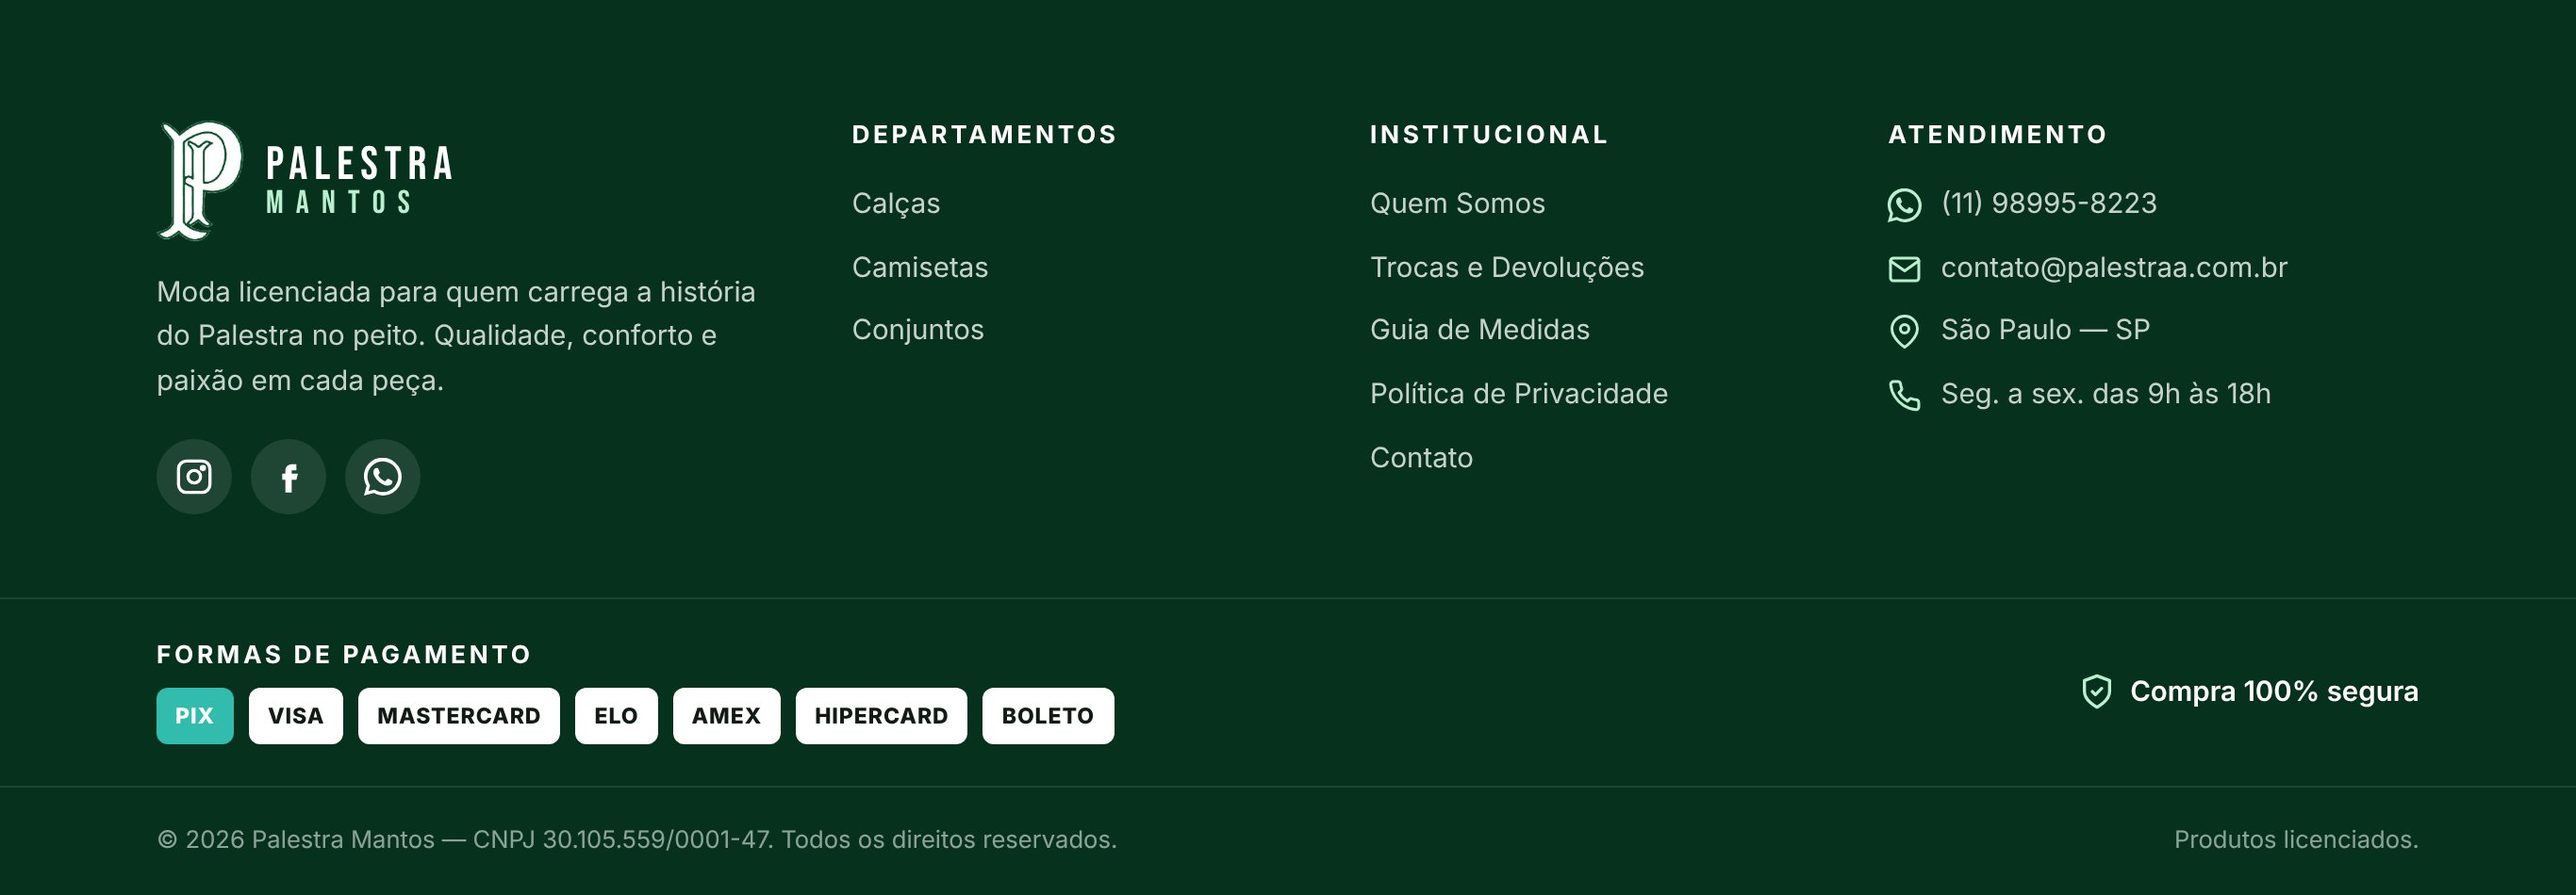
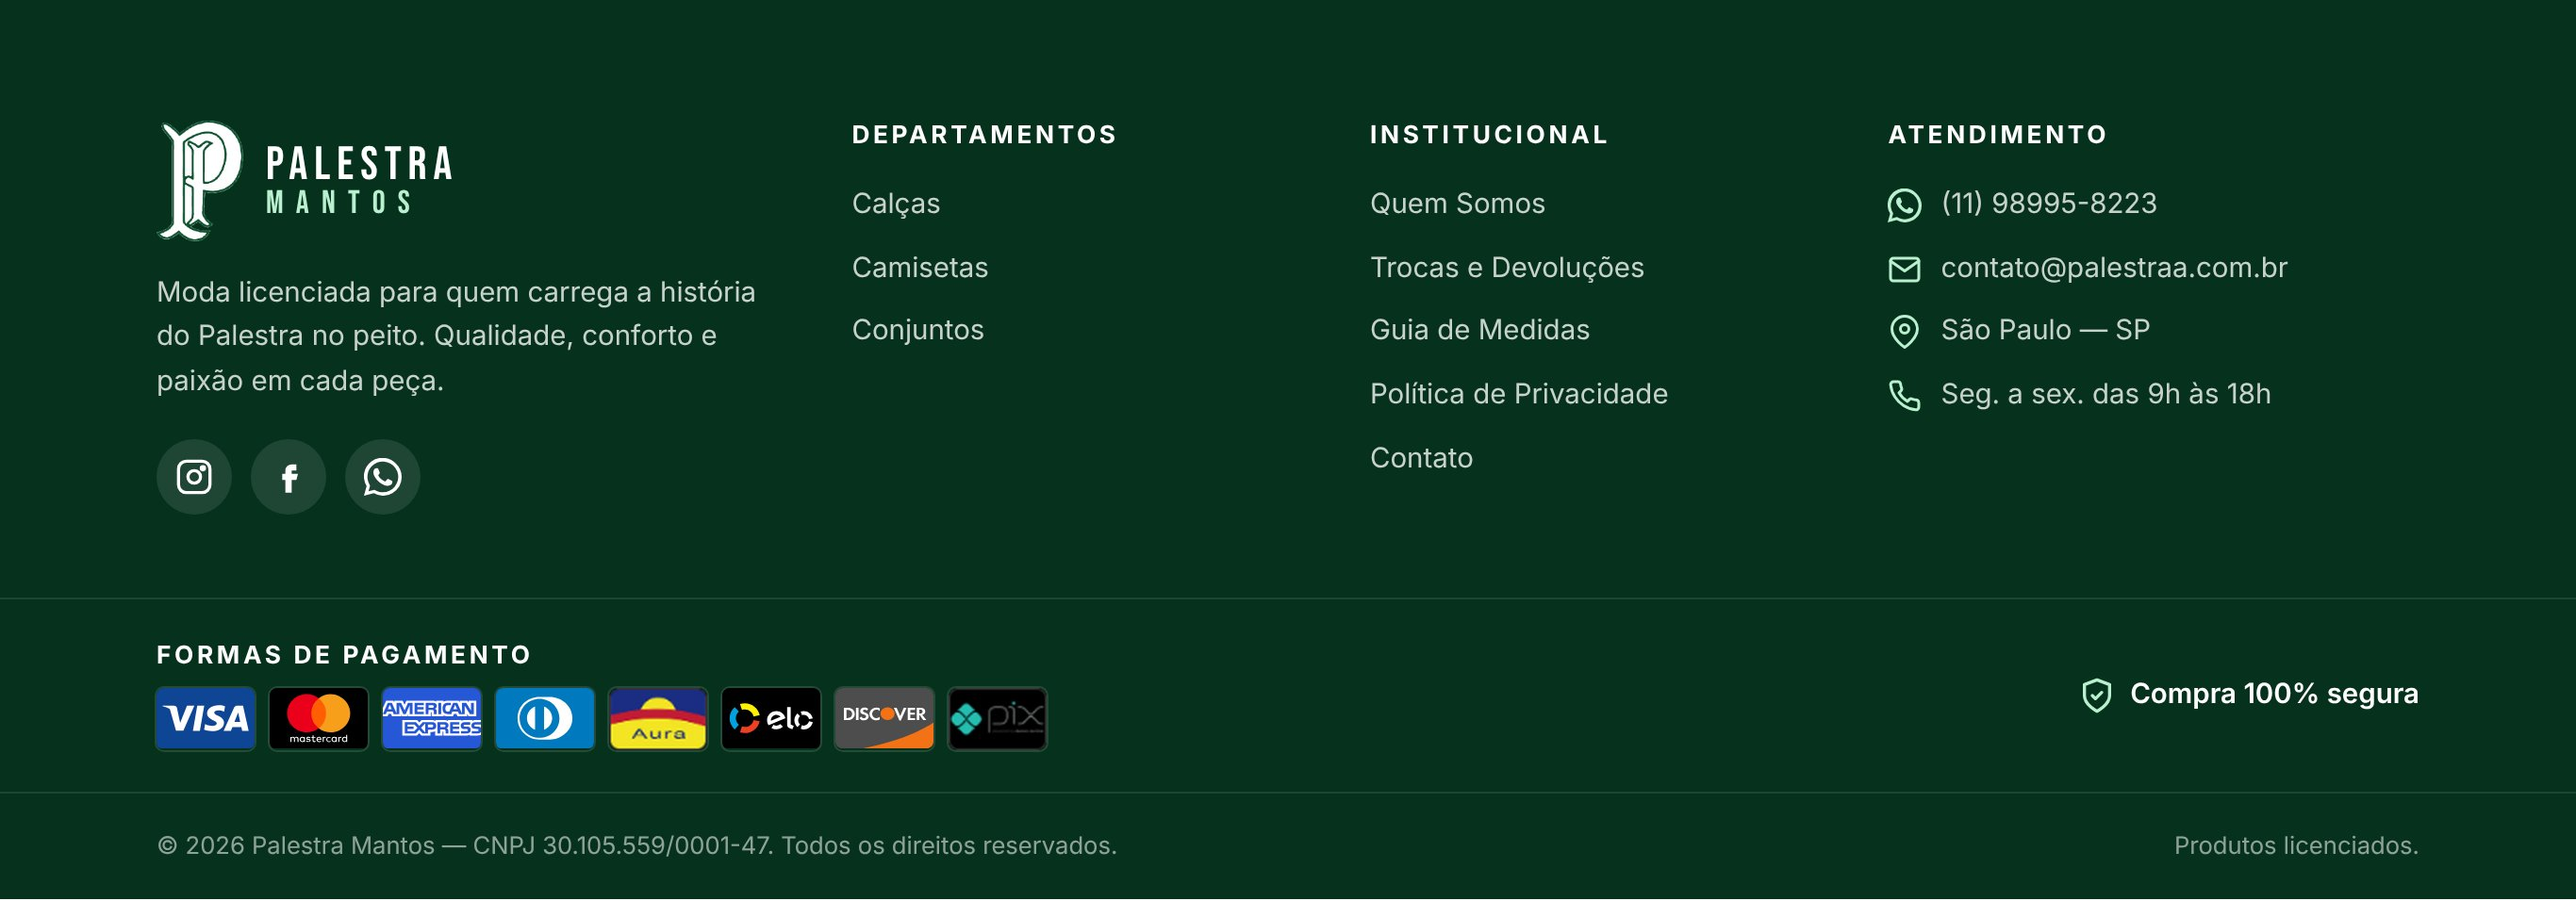
Rodapé: bandeiras dos cartões e Pix
Visa, Mastercard, Amex, Diners, Elo e Discover do pacote payment-icons
(MPL-2.0, sem alteração); Aura e Pix recortados da imagem enviada.

Claude-Session: https://claude.ai/code/session_01RYUceUEndgcHrxqzPZxihP

diff --git a/wp-theme/palestra-mantos/style.css b/wp-theme/palestra-mantos/style.css
@@ -3,7 +3,7 @@ Theme Name: Palestra Mantos
 Theme URI: https://palestraa.com.br
 Author: Palestra Mantos
 Description: Tema da loja Palestra Mantos — moda streetwear verde e branco, pronto para WooCommerce (Appmax e Mercado Pago), com desconto no Pix, botão de WhatsApp e instalação de conteúdo inicial em um clique.
-Version: 1.5.1
+Version: 1.5.2
 Requires at least: 6.4
 Requires PHP: 7.4
 WC requires at least: 8.0
@@ -679,8 +679,7 @@ form.cart.pm-flash { animation: pm-flash 1.6s ease; border-radius: 14px; }
 .pm-footer__pay { border-top: 1px solid rgba(255,255,255,.1); }
 .pm-footer__pay-inner { display: flex; align-items: center; justify-content: space-between; gap: 20px; padding: 22px 20px; flex-wrap: wrap; }
 .pm-paylist { display: flex; flex-wrap: wrap; gap: 8px; }
-.pm-paylist span { background: #fff; color: var(--pm-ink); font-size: .72rem; font-weight: 800; letter-spacing: .04em; padding: 6px 10px; border-radius: 6px; }
-.pm-paylist span.is-pix { background: #32bcad; color: #fff; }
+.pm-paylist img { width: 52px; height: 33px; object-fit: contain; border-radius: 4px; box-shadow: 0 0 0 1px rgba(255,255,255,.12); }
 .pm-secure { display: inline-flex; align-items: center; gap: 8px; font-weight: 600; color: #fff; }
 .pm-secure svg { width: 20px; height: 20px; color: #b9f0cf; }
 .pm-footer__bottom { background: #04241500; border-top: 1px solid rgba(255,255,255,.1); font-size: .8rem; color: rgba(255,255,255,.55); }

diff --git a/wp-theme/palestra-mantos/footer.php b/wp-theme/palestra-mantos/footer.php
@@ -87,7 +87,21 @@ defined( 'ABSPATH' ) || exit;
 			<div>
 				<h4 style="margin-bottom:10px"><?php esc_html_e( 'Formas de pagamento', 'palestra-mantos' ); ?></h4>
 				<div class="pm-paylist" aria-label="<?php esc_attr_e( 'Formas de pagamento aceitas', 'palestra-mantos' ); ?>">
-					<span class="is-pix">PIX</span><span>VISA</span><span>MASTERCARD</span><span>ELO</span><span>AMEX</span><span>HIPERCARD</span><span>BOLETO</span>
+					<?php
+					$pm_pay = array(
+						'visa.svg'       => 'Visa',
+						'mastercard.svg' => 'Mastercard',
+						'amex.svg'       => 'American Express',
+						'diners.svg'     => 'Diners Club',
+						'aura.png'       => 'Aura',
+						'elo.svg'        => 'Elo',
+						'discover.svg'   => 'Discover',
+						'pix.png'        => 'Pix',
+					);
+					foreach ( $pm_pay as $pm_file => $pm_label ) {
+						printf( '<img src="%s" alt="%s" title="%s" width="52" height="33" loading="lazy">', esc_url( pm_img( 'pay/' . $pm_file ) ), esc_attr( $pm_label ), esc_attr( $pm_label ) );
+					}
+					?>
 				</div>
 			</div>
 			<span class="pm-secure"><?php pm_the_icon( 'shield' ); ?> <?php esc_html_e( 'Compra 100% segura', 'palestra-mantos' ); ?></span>

diff --git a/wp-theme/palestra-mantos/functions.php b/wp-theme/palestra-mantos/functions.php
@@ -7,7 +7,7 @@
 
 defined( 'ABSPATH' ) || exit;
 
-define( 'PM_VERSION', '1.5.1' );
+define( 'PM_VERSION', '1.5.2' );
 define( 'PM_DIR', get_template_directory() );
 define( 'PM_URI', get_template_directory_uri() );
 
